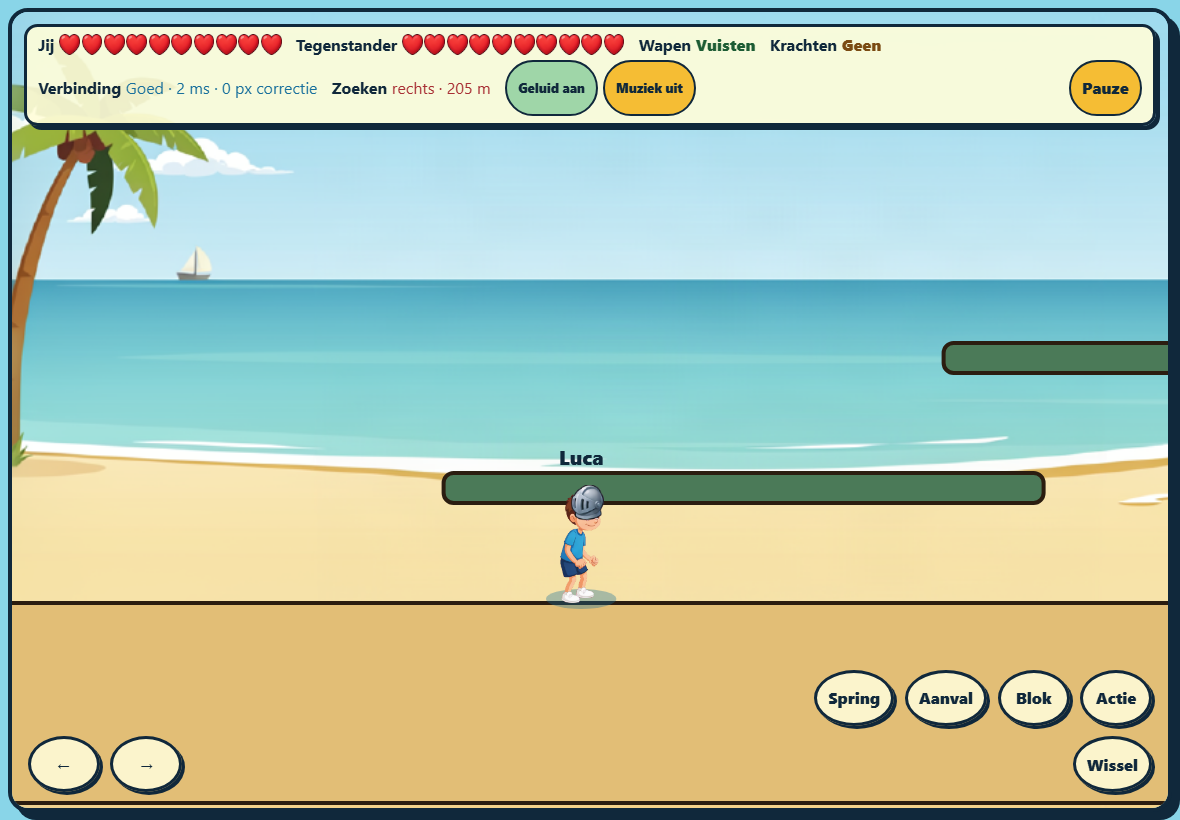
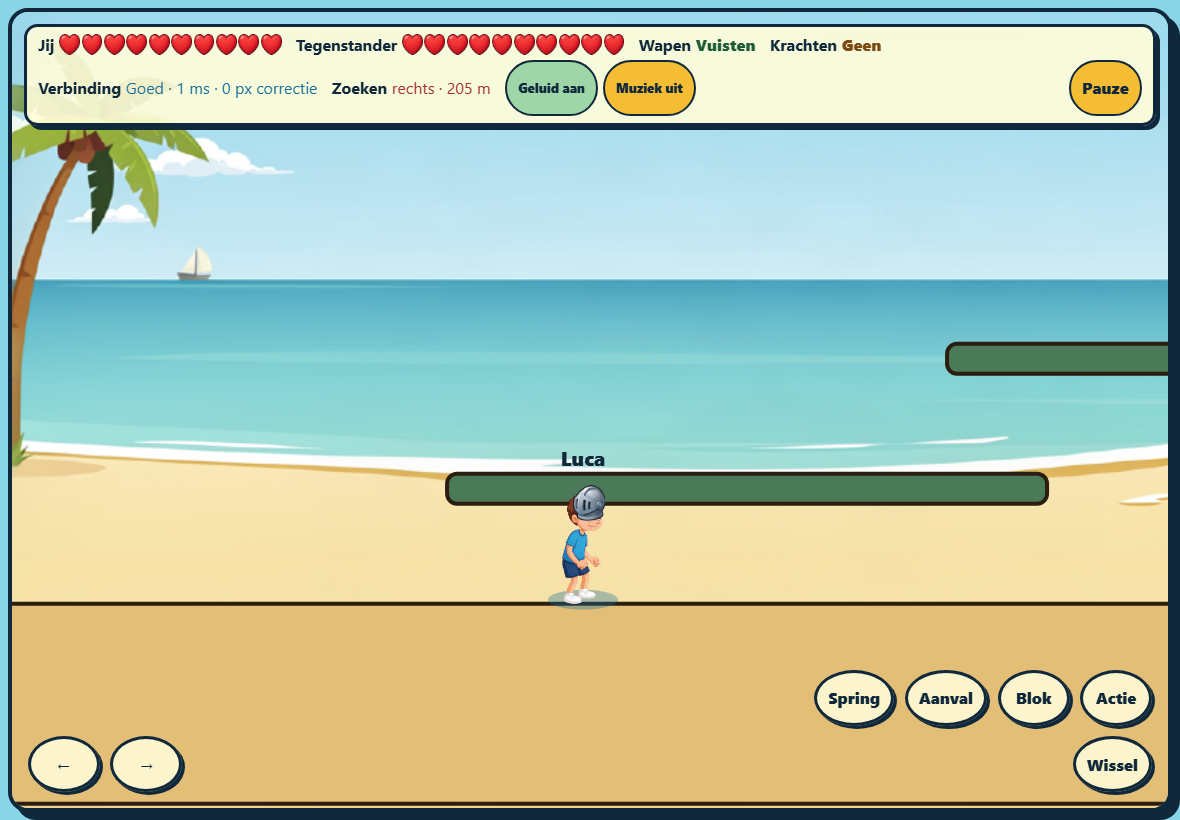
Provision production and verify it with a paired journey
Vercel production had only the Upstash variables, so it rejected every pairing
pin. It now has its own signing secret, internal secret, realtime URL, and an
admin pin, all matching a dedicated production Worker.

- The production Worker runs its own room (release-20260820) and its own
  secrets, so preview credentials cannot address production state. Together
  with the environment-prefixed Redis keys, each environment is isolated.
- tests/production/paired.spec.ts pairs two isolated devices against a
  deployed URL and drives whatever lobby state the room is in until both
  devices share one running match, then checks convergence, latency, and that
  nobody took phantom damage. It is skipped unless PRODUCTION_ADMIN_PIN is
  given, because it writes real device credentials.
- Passed in Chromium and WebKit against production.

The production admin pin is still the temporary release-check value and has to
be replaced with the owner's own pin before the children use it. Pairing the
physical iPads replaces the release-check device credentials automatically.

diff --git a/tests/production/paired.spec.ts b/tests/production/paired.spec.ts
@@ -1,0 +1,162 @@
+import { expect, test, type Page } from "@playwright/test";
+
+/**
+ * The one journey that needs the adult PIN: two isolated devices pair against a
+ * deployed environment and reach the same authoritative match. It is skipped
+ * unless `PRODUCTION_ADMIN_PIN` is provided, and it deliberately pairs real
+ * device credentials, so it belongs to the pre-release smoke described in the
+ * plan. Pairing the physical iPads afterwards replaces these credentials.
+ */
+const PIN = process.env.PRODUCTION_ADMIN_PIN ?? "";
+
+test.skip(PIN === "", "PRODUCTION_ADMIN_PIN is required for this journey.");
+
+async function pair(page: Page, role: "Luca" | "Senna"): Promise<void> {
+  await page.goto("/");
+  await page.getByRole("radio", { name: role }).check();
+  await page.getByLabel("Beheerpincode").fill(PIN);
+  await page.getByRole("button", { name: "Dit apparaat koppelen" }).click();
+
+  // A role that is still linked to an earlier device asks for confirmation, so
+  // wait for whichever answer arrives, including a refusal.
+  const heading = page.getByRole("heading", { name: `Hallo ${role}!` });
+  const replace = page.getByRole("button", {
+    name: "Ja, oud apparaat vervangen",
+  });
+  try {
+    await expect(heading.or(replace).first()).toBeVisible({ timeout: 15_000 });
+  } catch {
+    // Pairing is rate limited to five attempts a minute, so report what the
+    // page actually said instead of timing out on an invisible heading.
+    const reason = (await page.locator("#pair-message").textContent()) ?? "";
+    throw new Error(`pairing ${role} was refused: ${reason}`);
+  }
+  if (await replace.isVisible()) await replace.click();
+  await expect(heading).toBeVisible({ timeout: 20_000 });
+  await expect(page.locator("#connection-label")).toHaveText("Online", {
+    timeout: 20_000,
+  });
+}
+
+function distance(page: Page): Promise<number> {
+  return page
+    .locator("#opponent-status")
+    .evaluate((element) => Number((element as HTMLElement).dataset.distance));
+}
+
+function hearts(page: Page): Promise<number> {
+  return page
+    .locator("#own-hearts")
+    .evaluate(
+      (element) =>
+        element.querySelectorAll(".heart:not([data-lost='true'])").length,
+    );
+}
+
+test("two devices pair and share one authoritative match on the deployment", async ({
+  browser,
+}, testInfo) => {
+  const device = { viewport: { width: 1180, height: 820 }, hasTouch: true };
+  const lucaContext = await browser.newContext(device);
+  const sennaContext = await browser.newContext(device);
+  const luca = await lucaContext.newPage();
+  const senna = await sennaContext.newPage();
+
+  await pair(luca, "Luca");
+  await pair(senna, "Senna");
+
+  // Each device sees the other one online through the shared room.
+  await expect(luca.locator("#peer-status")).toHaveText("Online", {
+    timeout: 20_000,
+  });
+  await expect(senna.locator("#peer-status")).toHaveText("Online", {
+    timeout: 20_000,
+  });
+
+  // A release room can already hold a chosen world, a paused match, or a
+  // running one, so drive whatever state this room is actually in until both
+  // devices are playing. That also exercises the deployed resume flow.
+  const world = (page: Page) => page.getByRole("button", { name: "Strand" });
+  const ready = (page: Page) =>
+    page.getByRole("button", { name: /^(Ik ben klaar|Klaar!)$/ });
+
+  for (let step = 0; step < 8; step += 1) {
+    const phase = (await luca.locator("#phase-status").textContent())?.trim();
+    if (phase === "Spelen") break;
+    if (phase === "Aftellen") {
+      await luca.waitForTimeout(1_000);
+      continue;
+    }
+    if (phase === "Wereld kiezen") {
+      const lucaChooses = await world(luca).isEnabled();
+      const chooser = lucaChooses ? luca : senna;
+      const confirmer = lucaChooses ? senna : luca;
+      await world(chooser).click();
+      await expect(world(confirmer)).toHaveAttribute("aria-pressed", "true", {
+        timeout: 15_000,
+      });
+      await confirmer
+        .getByRole("button", { name: "Deze wereld is goed" })
+        .click();
+      continue;
+    }
+    if (phase === "Klaarmaken" || phase === "Gepauzeerd") {
+      // Cosmetics can only be chosen before the first countdown, so only click
+      // what this state actually offers.
+      for (const [page, cosmetic] of [
+        [luca, "Ridder"],
+        [senna, "Piraat"],
+      ] as const) {
+        const option = page.getByRole("button", { name: cosmetic });
+        if (await option.isEnabled()) await option.click();
+      }
+      for (const page of [luca, senna]) {
+        if (await ready(page).isEnabled()) await ready(page).click();
+      }
+      await luca.waitForTimeout(1_500);
+      continue;
+    }
+    // Waiting for the other device, or restoring a connection.
+    await luca.waitForTimeout(1_500);
+  }
+
+  // The three second countdown is transient, so both devices are checked for
+  // the state that matters: the same running match.
+  for (const page of [luca, senna]) {
+    await expect(page.locator("#phase-status")).toHaveText("Spelen", {
+      timeout: 30_000,
+    });
+    expect(await hearts(page)).toBe(10);
+    await expect(page.locator("#weapon-status")).toHaveText("Vuisten");
+  }
+
+  // Both players move at the same time and both devices agree they closed in.
+  const before = { luca: await distance(luca), senna: await distance(senna) };
+  await luca.keyboard.down("ArrowRight");
+  await senna.keyboard.down("ArrowLeft");
+  await luca.waitForTimeout(1_200);
+  await luca.keyboard.up("ArrowRight");
+  await senna.keyboard.up("ArrowLeft");
+  await expect
+    .poll(() => distance(luca), { timeout: 15_000 })
+    .toBeLessThan(before.luca);
+  await expect
+    .poll(() => distance(senna), { timeout: 15_000 })
+    .toBeLessThan(before.senna);
+
+  // Remote latency has to stay inside the product budget over the real path.
+  const quality = await luca.locator("#quality-status").textContent();
+  const milliseconds = Number(/(\d+)\s*ms/.exec(quality ?? "")?.[1] ?? "9999");
+  expect(milliseconds).toBeLessThan(350);
+
+  // Nothing awarded damage on its own.
+  expect(await hearts(luca)).toBe(10);
+  expect(await hearts(senna)).toBe(10);
+
+  await luca.screenshot({ path: testInfo.outputPath("production-luca.png") });
+  if (testInfo.project.name === "chromium") {
+    await luca.screenshot({ path: "docs/checkpoints/phase-07-production.png" });
+  }
+  await lucaContext.close();
+  await sennaContext.close();
+});

diff --git a/docs/PLAN.md b/docs/PLAN.md
@@ -8,7 +8,7 @@ This is the durable execution record for implementing [`PRD.md`](./PRD.md). It i
 - Overall status: Implementation in progress
 - Current phase: Phase 8 - Pause, reconnect, finish, and rematch
 - Implementation progress: 8 of 11 phases complete
-- Current blocker: None for Phase 8. Two Phase 10 items are open: the Vercel production environment still lacks `ADMIN_PIN`, `SESSION_SIGNING_SECRET`, `WORKER_INTERNAL_SECRET`, and `REALTIME_URL`, so production cannot pair a device; and the exact target iPad models must still be recorded.
+- Current blocker: None for Phase 8. One Phase 10 item is open: the exact target iPad models must still be recorded. Production is now provisioned and playable, but its `ADMIN_PIN` is the temporary release-check value and must be replaced by the owner's own pin before the children use it.
 - Next action: Start Phase 8 at immediate global pause and both-ready resume. The schema v4 Worker must be deployed before the matching frontend.
 
 Status values used below:
@@ -109,7 +109,7 @@ These are external facts, not implementation design choices. Record answers here
 | --- | --- | --- |
 | Exact model identifier and iPadOS version for Luca's iPad | Phase 10 physical gate | Develop to Safari 17/iPadOS 17 floor and common iPad landscape viewports. |
 | Exact model identifier and iPadOS version for Senna's iPad | Phase 10 physical gate | Same as above. |
-| Provider/GitHub account authorization and production secrets | Phase 2 remote gate and Phase 10 deployment | Preview is fully provisioned. Production has the Worker and its secrets but still needs `ADMIN_PIN`, `SESSION_SIGNING_SECRET`, `WORKER_INTERNAL_SECRET`, and `REALTIME_URL` in Vercel; the matching Worker values are in the ignored `.production-secrets.local`. Never store real values in Git. |
+| Provider/GitHub account authorization and production secrets | Phase 2 remote gate and Phase 10 deployment | Preview and production are both provisioned: each has its own Worker, room, signing secret, and internal secret. The owner must still replace the temporary production `ADMIN_PIN` with their own before the iPads are paired. Never store real values in Git. |
 
 ## Target Code Shape
 
@@ -563,6 +563,8 @@ Append concise entries as work is verified. Do not replace prior evidence.
 | 2026-08-20 | Deployment | Vercel production build from `main` | Passed: deployment `senna-luca-stijders-gsj650w9q` Ready, serves the new HUD and the prepared artwork | `npx vercel ls` |
 | 2026-08-20 | Deployment | `npm run test:production` | Passed: 5 Chromium and 5 WebKit checks covering health, Dutch unpaired refusal, retired state surface, no secret in the bundle, artwork delivery, and a full test-mode match on the deployed build | `tests/production/smoke.spec.ts` |
 | 2026-08-20 | Deployment | Production pairing probe | Passed as fail-closed: with `ADMIN_PIN` unset every pin, including an empty one, is rejected with a Dutch 401, so production cannot be paired until it is provisioned | Live `POST /api/pair` |
+| 2026-08-20 | Deployment | Vercel production provisioning | Passed: `ADMIN_PIN`, `SESSION_SIGNING_SECRET`, `WORKER_INTERNAL_SECRET`, and `REALTIME_URL` set as sensitive production variables, matching the production Worker's own secrets; correct pin returns 200 and a wrong pin returns a Dutch 401 | `npx vercel env ls production` |
+| 2026-08-20 | Deployment | Paired production journey | Passed: two isolated contexts paired Luca and Senna against the production URL, reached one authoritative match on the release room, both moved and converged, latency well inside the 350 ms p95 budget, and neither player took phantom damage | `tests/production/paired.spec.ts`, `docs/checkpoints/phase-07-production.png` |
 
 ## Session Log
 
@@ -589,3 +591,4 @@ Append one row at session start and update its outcome before session end.
 | 2026-08-19 | Phase 6 and art | Completed combat: block damage reduction and slowdown, centre-based melee reach, sword charge/throw with retrieval and owner return, Nerf darts with ammo, two weapon slots with switching and drops, immediate finish and winner, pruned authoritative feedback events, adversarial Worker tests, a recorded duel fixture, and a dual-client duel journey. Landed the requested art and audio: Layer MCP sprites, icons, and six world backdrops through a tested local preparation pipeline, plus synthesised sound with independent mutes. | Complete and verified. `npm run check`, Chromium and WebKit E2E all pass. Restart at Phase 7's first unchecked task; inspect `docs/checkpoints/phase-06.md`. |
 | 2026-08-20 | Phase 7 | Implemented announced chests, the seeded shuffle bag, Action claims with deterministic tie resolution, all six outcomes, armor/camouflage/speed effects with HUD and opponent-visible indicators, and the eligible-recovery counter. | Complete and verified. `npm run check`, 11 Chromium and 11 WebKit journeys pass. Restart at Phase 8's first unchecked task; inspect `docs/checkpoints/phase-07.md`. |
 | 2026-08-20 | Deployment | Deployed the schema v4 Worker to preview and production, pushed the frontend, added a read-only production smoke suite, and audited the deployed environment. | Complete for everything that does not need production credentials. Production Vercel still needs its four environment variables before a device can be paired; the Worker side is already provisioned. |
+| 2026-08-20 | Deployment | Provisioned Vercel production, gave production its own release room, and ran the paired production journey from two isolated contexts. | Complete. Production is playable end to end. The temporary release-check `ADMIN_PIN` must be replaced by the owner, and those release-check device credentials are replaced automatically when the physical iPads are paired. |

diff --git a/docs/checkpoints/phase-07.md b/docs/checkpoints/phase-07.md
@@ -34,6 +34,23 @@ Date: 2026-08-20
[1 lines of base64/hex data omitted]
 - The journey uses a development-only `/debug/spawn-chest` route (local development with `E2E_IN_MEMORY` only) to skip the twelve-second wait between chests. The landing, the claim, and the reward all run through the real authoritative rules; only the schedule is short-circuited, and the schedule itself is covered by unit tests.
 
+## Deployed Verification
+
+Worker before frontend, as the plan requires:
+
+| Environment | Worker | Room | Health |
+| --- | --- | --- | --- |
+| Preview | `senna-luca-strijders-preview` version `e2cacbba-403c-48e4-be58-bc9189a36b90` | `gate-20260819` | protocol 1, schema 4 |
+| Production | `senna-luca-strijders-production` version `537e1456-79d8-4fec-8b84-59748ea56dd2` | `release-20260820` | protocol 1, schema 4 |
+
+- Vercel production deployment is Ready and aliased to `https://senna-luca-stijders.vercel.app`.
+- `npm run test:production`: 5 read-only checks in Chromium and 5 in WebKit. Health, the Dutch unpaired refusal, the retired state surface, no secret in the browser bundle, artwork delivery, and a full test-mode match on the deployed build.
+- `tests/production/paired.spec.ts`: two isolated contexts paired Luca and Senna against the production URL, reached one authoritative match, both moved and converged, remote latency stayed far inside the 350 ms p95 budget, and neither player took phantom damage. Evidence: [`phase-07-production.png`](./phase-07-production.png).
+- Before provisioning, production rejected every pin including an empty one, so an unconfigured environment fails closed rather than open.
+- Environment isolation is structural: each environment has its own Worker, its own Durable Object room id, its own signing and internal secrets, and Redis keys prefixed with the environment name, so a preview credential cannot address production state. The runtime proof of that isolation stays a Phase 10 gate.
+
+The production `ADMIN_PIN` is a temporary release-check value. It must be replaced with the owner's own pin, and the release-check device credentials are replaced automatically the first time the physical iPads are paired.
+
 ## Remaining
 
 Pause and reconnect behaviour around chests, the winner overlay, and rematch consent are Phase 8. Distinct geometry per world and teleports are Phase 9.
